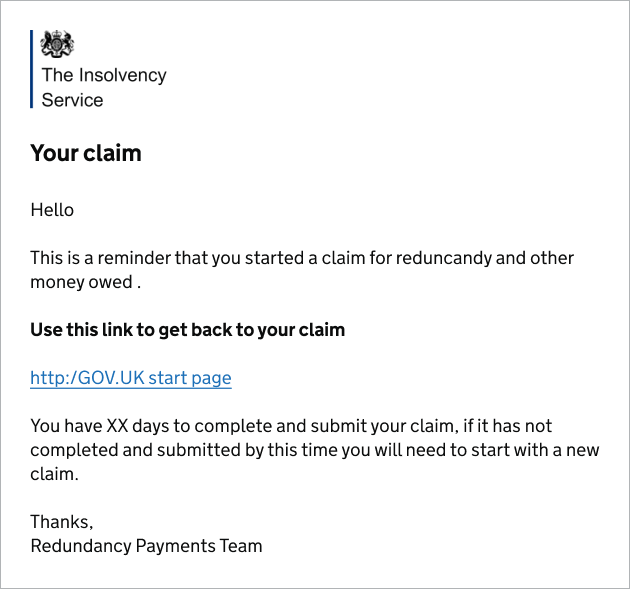
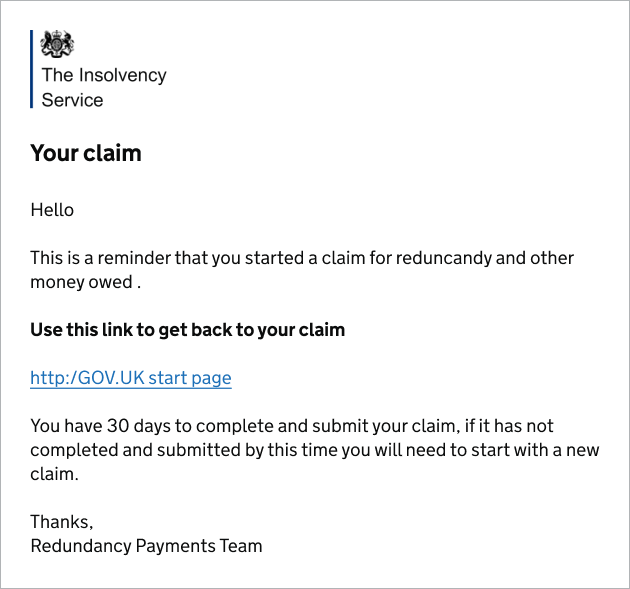
Updates following review with Karam, Charlotte and Rohan.

Changed region(s): [[0.1508, 0.7029, 0.8746, 0.7334]]

diff --git a/app/views/v2/new-your-email-address.html b/app/views/v2/new-your-email-address.html
@@ -40,7 +40,9 @@
 
       <h1 class="govuk-heading-xl">Your email address</h1>
 
-      <p class="govuk-body">We use your email address to create your claim, save the progress of your claim, to update you about the progress of your claim and send confirmation of your payment. If you need to contact us, we use your email address to confirm your identity.</p>
+      <p class="govuk-body"><strong>[CHARLOTTE TO REVIEW]</strong> We use your email address to create your claim, save the progress of your claim, to update you about the progress of your claim and send confirmation of your payment. If you need to contact us, we use your email address to confirm your identity.</p>
+
+      <p class="govuk-body"><strong>[CHARLOTTE TO REVIEW]</strong> If you use the same email for more than one claim, you will not be able to save and continue - you must complete your claim before closing your browser window.</p>
 
       <div class="govuk-inset-text">
         We will send you a code to confirm your email address as the next step.
@@ -54,6 +56,7 @@
             <div id="claimant-email-hint" class="govuk-hint">
               We’ll use this to send you information about this claim.
             </div>
+
             <input class="govuk-input" id="claimant-email" name="claimant-email" type="text">
 
           </fieldset>

diff --git a/app/views/v2/new-confirm-your-email-address.html b/app/views/v2/new-confirm-your-email-address.html
@@ -7,6 +7,35 @@
 
 {% block content %}
 
+<!-- ************************** -->
+<!-- ************************** -->
+<!-- PHASE BANNER AND BACK LINK -->
+<div class="govuk-grid-row govuk-!-margin-bottom-9" style="margin-top:-50px">
+  <div class="govuk-grid-column-full">
+
+    <div class="govuk-phase-banner">
+      <p class="govuk-phase-banner__content">
+        <strong class="govuk-tag govuk-phase-banner__content__tag">
+          beta
+        </strong>
+        <span class="govuk-phase-banner__text">
+          This is a new service – your <a class="govuk-link" href="#">feedback</a> will help us to improve it.
+        </span>
+      </p>
+    </div>
+
+    <a href="javascript:history.back()" class="govuk-back-link">Back</a>
+
+  </div>
+</div>
+
+
+
+
+
+
+
+
   <div class="govuk-grid-row">
     <div class="govuk-grid-column-two-thirds">
 

diff --git a/app/views/v2/new-claim-started-confrirmation.html b/app/views/v2/new-claim-started-confrirmation.html
@@ -66,7 +66,7 @@
         Sign out and continue later
       </a>
 
-      <p class="govuk-body">You’ll be able to return to this claim at any point over the next 14 days and pick up where you left off.</p>
+      <p class="govuk-body">You’ll be able to return to this claim at any point over the next 30 days and pick up where you left off.</p>
 
     </div>
   </div>
